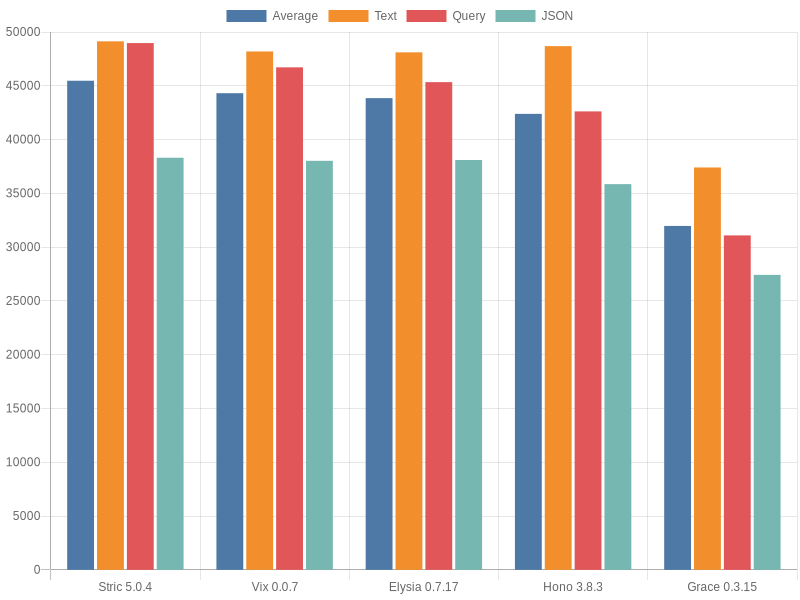
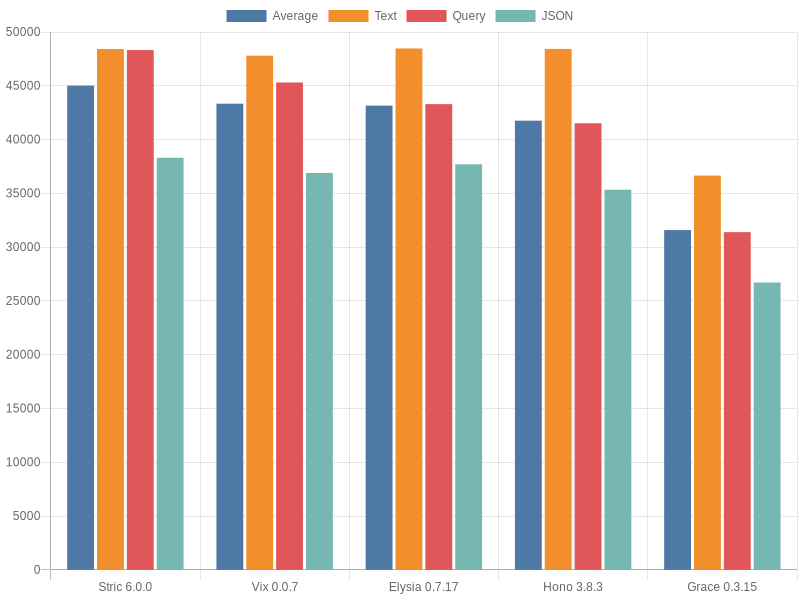
Perf improvement for Stric

diff --git a/results/index.md b/results/index.md
@@ -1,6 +1,6 @@
-Bun: 1.0.6
+Bun: 1.0.7
 
-Tested at: 09:43, October 24th, 2023
+Tested at: 21:48, October 29th, 2023
 
 ## OS Details
 - Cores: 8
@@ -11,7 +11,7 @@ Tested at: 09:43, October 24th, 2023
 ## Tests
 ### GET `/`
 Should return `Hi` as a response.
-### GET `/id/71?name=L9w`
+### GET `/id/17?name=cMl`
 Should return the `id` parameter value and the query value, for example `1 a` when the request path is `/id/1?name=a`.
 ### POST `/api/json`
 Return the request body with `Content-Type` set to `application/json`.
@@ -22,10 +22,10 @@ Return the request body with `Content-Type` set to `application/json`.
 - Results are measured in requests per second.
 
 ## Results
-| Name | Average | GET `/` | GET `/id/5?name=Ne4` | POST `/api/json` |
+| Name | Average | GET `/` | GET `/id/34?name=THW` | POST `/api/json` |
 |  :---: | :---: | :---: | :---: | :---: |
-| [Stric 5.0.4](/results/main/Stric) | 45471.03 | 49129.95 | 48973.15 | 38310.00 |
-| [Vix 0.0.7](/results/main/Vix) | 44311.63 | 48189.07 | 46717.18 | 38028.65 |
-| [Elysia 0.7.17](/results/main/Elysia) | 43851.77 | 48109.24 | 45342.47 | 38103.61 |
-| [Hono 3.8.3](/results/main/Hono) | 42387.21 | 48686.79 | 42617.33 | 35857.50 |
-| [Grace 0.3.15](/results/main/Grace) | 31972.53 | 37408.14 | 31088.64 | 27420.82 |
+| [Stric 6.0.0](/results/main/Stric) | 45017.48 | 48421.68 | 48318.50 | 38312.25 |
+| [Vix 0.0.7](/results/main/Vix) | 43335.95 | 47801.58 | 45309.27 | 36897.01 |
+| [Elysia 0.7.17](/results/main/Elysia) | 43154.77 | 48467.49 | 43295.76 | 37701.07 |
+| [Hono 3.8.3](/results/main/Hono) | 41759.32 | 48425.31 | 41516.73 | 35335.91 |
+| [Grace 0.3.15](/results/main/Grace) | 31584.57 | 36649.23 | 31391.94 | 26712.54 |

diff --git a/README.md b/README.md
@@ -47,10 +47,10 @@ See [configuration file](/config.ts) and the [type declarations](/lib/types.ts).
 ### Table 
 
 
-| Name | Average | GET `/` | GET `/id/5?name=Ne4` | POST `/api/json` |
+| Name | Average | GET `/` | GET `/id/34?name=THW` | POST `/api/json` |
 |  :---: | :---: | :---: | :---: | :---: |
-| [Stric 5.0.4](/results/main/Stric) | 45471.03 | 49129.95 | 48973.15 | 38310.00 |
-| [Vix 0.0.7](/results/main/Vix) | 44311.63 | 48189.07 | 46717.18 | 38028.65 |
-| [Elysia 0.7.17](/results/main/Elysia) | 43851.77 | 48109.24 | 45342.47 | 38103.61 |
-| [Hono 3.8.3](/results/main/Hono) | 42387.21 | 48686.79 | 42617.33 | 35857.50 |
-| [Grace 0.3.15](/results/main/Grace) | 31972.53 | 37408.14 | 31088.64 | 27420.82 |
+| [Stric 6.0.0](/results/main/Stric) | 45017.48 | 48421.68 | 48318.50 | 38312.25 |
+| [Vix 0.0.7](/results/main/Vix) | 43335.95 | 47801.58 | 45309.27 | 36897.01 |
+| [Elysia 0.7.17](/results/main/Elysia) | 43154.77 | 48467.49 | 43295.76 | 37701.07 |
+| [Hono 3.8.3](/results/main/Hono) | 41759.32 | 48425.31 | 41516.73 | 35335.91 |
+| [Grace 0.3.15](/results/main/Grace) | 31584.57 | 36649.23 | 31391.94 | 26712.54 |
